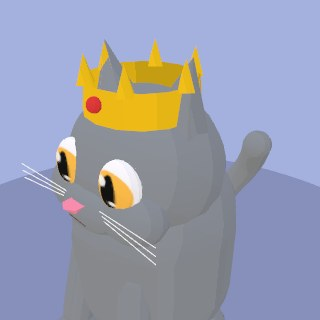
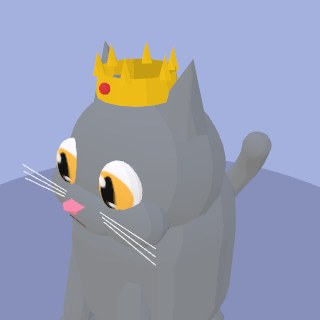
Accessory polish pass from review feedback
- Bandana + scarf bands sit a hair lower so the top edge clears the cheeks.
- Crown shrunk and perched high on the head, between the ears.
- Pirate tricorn rebuilt: felt dome with three LARGE up-curled folds
  (flattened raked spheres) like a real tricorn, gold trim kept.
- Top hat slimmed to fedora width so it rides between the ears.
- Cowboy hat: brim sides curl up (raked wings) and the crown gets a
  cattleman crease (two ridge lobes with a valley between).
- Aviator cap: bigger ear flaps down the sides; goggles pushed out along
  the dome's surface normal so they rest ON the cap instead of sinking in.
- Racing helmet rebuilt: wide glossy dome capping the whole skull, white
  racing stripe arcing nose-to-nape, upturned sun peak at the brow.
- Chef toque taller.
- Wizard hat perched higher with a smaller brim, clear of ears and scalp.
- Viking horns rebuilt much bigger: three stacked segments per side
  (thick frustum base, slimmer mid, tapered tip) sweeping out and up.
- Scarf's hanging end is now a thin slab with a flush white tip stripe
  (reads woven-in, not stuck on).
- Fish charm hangs vertically from a little gold link ring on the collar.

Catalog thumbnails regenerated.

Claude-Session: https://claude.ai/code/session_017fyz1DfGtQ1NoLSq3UX5Bd

diff --git a/src/models.js b/src/models.js
@@ -1122,7 +1122,7 @@ export function createCat(furColor = 0xf0a830, opts = {}) {
     // (Ring smaller + shifted forward for the same egg-section fit reasons as
     // the collar below.)
     const band = new THREE.Mesh(new THREE.CylinderGeometry(0.82, 0.9, 0.2, 32, 1, true), bandMat);
-    band.position.set(0, 1.73, 0.08); band.rotation.x = 0.24; acc.add(band);
+    band.position.set(0, 1.7, 0.08); band.rotation.x = 0.24; acc.add(band); // y1.70: a hair lower so the top edge clears the cheeks
     // Kerchief: a wide, short inverted triangle. NOT a flat sheet — it bulges
     // FORWARD in the middle (a gentle fold) so it drapes OVER the rounded chest
     // instead of the chest bulging through a flat plane. Top edge tucks behind the
@@ -1140,7 +1140,7 @@ export function createCat(furColor = 0xf0a830, opts = {}) {
     fgeo.setIndex([0, 2, 1, 0, 3, 2, 2, 3, 1]);
     fgeo.computeVertexNormals();
     const flap = new THREE.Mesh(fgeo, clothMat);
-    flap.position.set(0, 1.56, 0.82); acc.add(flap); // top edge tucked behind the band's lowered front
+    flap.position.set(0, 1.53, 0.82); acc.add(flap); // top edge tucked behind the band's lowered front
     // The tie at the nape: a knot with two pointed tails, as when a bandana is
     // knotted at the back of the neck. Pushed well behind the neck (z ~ -0.95) so
     // it sits PROUD of the torso's back (which reaches ~z-0.85 here) instead of
@@ -1194,53 +1194,68 @@ export function createCat(furColor = 0xf0a830, opts = {}) {
     rim.position.set(0, 0.46, 0.02); rim.rotation.x = Math.PI / 2; acc.add(rim);
     const pom = new THREE.Mesh(new THREE.SphereGeometry(0.12, 10, 10), accMat(0xf0f0f0));
     pom.position.set(0, 1.36, 0.02); acc.add(pom);  } else if (accId === "crown") {
-    // royal crown — metal band, spikes around the rim, one jewel at the brow
+    // royal crown — SMALL, perched high on the crown of the head so it sits
+    // between the ears instead of ringing through them
     const m = accMat(accCol, 0.35, 0.7);
-    const band = new THREE.Mesh(new THREE.CylinderGeometry(0.52, 0.55, 0.3, 16, 1, true),
+    const band = new THREE.Mesh(new THREE.CylinderGeometry(0.34, 0.37, 0.22, 16, 1, true),
       new THREE.MeshStandardMaterial({ color: accCol, roughness: 0.35, metalness: 0.7, side: THREE.DoubleSide }));
-    band.position.set(0, 0.72, 0.02); acc.add(band);
+    band.position.set(0, 0.85, 0.08); acc.add(band);
     for (let i = 0; i < 6; i++) {
       const a = (i / 6) * Math.PI * 2 + Math.PI / 6;
-      const spike = new THREE.Mesh(new THREE.ConeGeometry(0.1, 0.26, 4), m);
-      spike.position.set(Math.sin(a) * 0.5, 0.97, Math.cos(a) * 0.5 + 0.02);
+      const spike = new THREE.Mesh(new THREE.ConeGeometry(0.07, 0.2, 4), m);
+      spike.position.set(Math.sin(a) * 0.33, 1.03, Math.cos(a) * 0.33 + 0.08);
       acc.add(spike);
     }
-    const jewel = new THREE.Mesh(new THREE.SphereGeometry(0.07, 10, 10), accMat(0xe23b3b, 0.25, 0.3));
-    jewel.position.set(0, 0.74, 0.57); acc.add(jewel);  } else if (accId === "pirate") {
-    // tricorn — a low dome with three brim plates raked up around it
+    const jewel = new THREE.Mesh(new THREE.SphereGeometry(0.05, 10, 10), accMat(0xe23b3b, 0.25, 0.3));
+    jewel.position.set(0, 0.86, 0.45); acc.add(jewel);  } else if (accId === "pirate") {
+    // tricorn — a felt dome with three LARGE up-curled folds leaning against
+    // it (each fold a wide flattened sphere raked steeply, like the folded
+    // brim of a real tricorn)
     const m = accMat(accCol, 0.7);
-    const dome = new THREE.Mesh(new THREE.SphereGeometry(0.6, 16, 12, 0, Math.PI * 2, 0, Math.PI / 2), m);
-    dome.position.set(0, 0.55, 0.02); dome.scale.set(1, 0.75, 1); acc.add(dome);
+    const dome = new THREE.Mesh(new THREE.SphereGeometry(0.62, 16, 12, 0, Math.PI * 2, 0, Math.PI / 2), m);
+    dome.position.set(0, 0.5, 0.02); dome.scale.set(1, 0.85, 1); acc.add(dome);
     for (const a of [0, 2.09, -2.09]) {
-      const plate = new THREE.Mesh(rbox(1.0, 0.07, 0.34, 0.03), m);
-      plate.rotation.order = "YXZ"; // yaw around the dome, then tilt the outer edge up
-      plate.position.set(Math.sin(a) * 0.42, 0.62, Math.cos(a) * 0.42 + 0.02);
-      plate.rotation.y = a; plate.rotation.x = -0.5;
-      acc.add(plate);
+      const fold = new THREE.Mesh(new THREE.SphereGeometry(0.55, 14, 12), m);
+      fold.rotation.order = "YXZ"; // yaw around the dome, then rake the wall
+      fold.position.set(Math.sin(a) * 0.52, 0.62, Math.cos(a) * 0.52 + 0.02);
+      fold.rotation.y = a; fold.rotation.x = -1.05;
+      fold.scale.set(1.0, 0.6, 0.16);
+      acc.add(fold);
     }
-    const trim = new THREE.Mesh(new THREE.TorusGeometry(0.56, 0.035, 6, 20), accMat(0xf5c518, 0.4, 0.5));
-    trim.position.set(0, 0.6, 0.02); trim.rotation.x = Math.PI / 2; acc.add(trim);  } else if (accId === "tophat") {
-    // formal top hat + a gold-rimmed monocle at the right eye
+    const trim = new THREE.Mesh(new THREE.TorusGeometry(0.58, 0.035, 6, 20), accMat(0xf5c518, 0.4, 0.5));
+    trim.position.set(0, 0.52, 0.02); trim.rotation.x = Math.PI / 2; acc.add(trim);  } else if (accId === "tophat") {
+    // formal top hat (fedora-slim so it rides between the ears) + a
+    // gold-rimmed monocle at the right eye
     const m = accMat(accCol, 0.5);
-    const brim = new THREE.Mesh(new THREE.CylinderGeometry(0.8, 0.8, 0.06, 20), m);
-    brim.position.set(0, 0.6, 0.02); acc.add(brim);
-    const crown = new THREE.Mesh(new THREE.CylinderGeometry(0.5, 0.52, 0.7, 18), m);
-    crown.position.set(0, 0.98, 0.02); acc.add(crown);
-    const hatband = new THREE.Mesh(new THREE.CylinderGeometry(0.53, 0.53, 0.12, 18), accMat(accColDark()));
-    hatband.position.set(0, 0.72, 0.02); acc.add(hatband);
+    const brim = new THREE.Mesh(new THREE.CylinderGeometry(0.66, 0.66, 0.06, 20), m);
+    brim.position.set(0, 0.64, 0.02); acc.add(brim);
+    const crown = new THREE.Mesh(new THREE.CylinderGeometry(0.4, 0.42, 0.7, 18), m);
+    crown.position.set(0, 1.0, 0.02); acc.add(crown);
+    const hatband = new THREE.Mesh(new THREE.CylinderGeometry(0.43, 0.43, 0.12, 18), accMat(accColDark()));
+    hatband.position.set(0, 0.74, 0.02); acc.add(hatband);
     const ring = new THREE.Mesh(new THREE.TorusGeometry(0.16, 0.025, 8, 20), accMat(0xf5c518, 0.35, 0.7));
     ring.position.set(0.34, 0.08, 0.86); acc.add(ring);
     const glass = new THREE.Mesh(new THREE.CylinderGeometry(0.14, 0.14, 0.02, 16), accMat(0xcfe0ea, 0.15, 0.5));
     glass.rotation.x = Math.PI / 2; glass.position.set(0.34, 0.08, 0.85); acc.add(glass);  } else if (accId === "cowboy") {
-    // wide rolled-edge brim (a flattened torus reads as the curl) + pinched crown
+    // wide brim with the SIDES curled up (two raked wings) + a cattleman
+    // crease faked by two ridge lobes on the crown top with a valley between
     const m = accMat(accCol, 0.75);
-    const curl = new THREE.Mesh(new THREE.TorusGeometry(0.72, 0.2, 10, 24), m);
-    curl.rotation.x = Math.PI / 2; curl.scale.set(1, 1, 0.28);
-    curl.position.set(0, 0.62, 0.02); acc.add(curl);
     const disc = new THREE.Mesh(new THREE.CylinderGeometry(0.74, 0.74, 0.05, 20), m);
     disc.position.set(0, 0.62, 0.02); acc.add(disc);
+    for (const sx of [-1, 1]) {
+      const wing = new THREE.Mesh(rbox(0.34, 0.06, 0.92, 0.03), m);
+      wing.position.set(sx * 0.72, 0.72, 0.02);
+      wing.rotation.z = sx * 0.55; // outer edge sweeps up
+      acc.add(wing);
+    }
     const crown = new THREE.Mesh(new THREE.CylinderGeometry(0.44, 0.5, 0.45, 16), m);
     crown.position.set(0, 0.84, 0.02); crown.scale.set(1, 1, 0.92); acc.add(crown);
+    for (const sx of [-1, 1]) {
+      const ridge = new THREE.Mesh(new THREE.SphereGeometry(0.14, 10, 10), m);
+      ridge.position.set(sx * 0.16, 1.06, 0.02);
+      ridge.scale.set(1, 0.65, 2.4); // front-to-back ridges; the gap between reads as the crease
+      acc.add(ridge);
+    }
     const hatband = new THREE.Mesh(new THREE.CylinderGeometry(0.5, 0.5, 0.1, 16), accMat(accColDark()));
     hatband.position.set(0, 0.68, 0.02); hatband.scale.set(1, 1, 0.92); acc.add(hatband);  } else if (accId === "aviator") {
     // leather flight cap with ear flaps + goggles pushed up on the forehead
@@ -1248,48 +1263,54 @@ export function createCat(furColor = 0xf0a830, opts = {}) {
     const dome = new THREE.Mesh(new THREE.SphereGeometry(0.66, 16, 12, 0, Math.PI * 2, 0, Math.PI * 0.62), m);
     dome.position.set(0, 0.35, 0); dome.scale.set(1, 0.85, 1); acc.add(dome);
     for (const sx of [-1, 1]) {
-      const flap = new THREE.Mesh(rbox(0.16, 0.4, 0.34, 0.06), m);
-      flap.position.set(sx * 0.64, 0.05, 0.05); acc.add(flap);
+      // Big ear flaps hanging down the sides of the head, like the real thing.
+      const flap = new THREE.Mesh(rbox(0.18, 0.52, 0.42, 0.07), m);
+      flap.position.set(sx * 0.68, -0.08, 0.08); acc.add(flap);
     }
+    // Goggles rest ON the cap's surface (centres pushed out along the dome's
+    // normal, tilted to lie against the slope) so they never sink into it.
     const gm = accMat(0x8a8f98, 0.4, 0.6);
     for (const sx of [-1, 1]) {
       const ring = new THREE.Mesh(new THREE.TorusGeometry(0.17, 0.035, 8, 18), gm);
-      ring.position.set(sx * 0.23, 0.64, 0.5); ring.rotation.x = -0.95; acc.add(ring);
+      ring.position.set(sx * 0.24, 0.57, 0.61); ring.rotation.x = -0.52; acc.add(ring);
       const lens = new THREE.Mesh(new THREE.CylinderGeometry(0.15, 0.15, 0.02, 14), accMat(0xbfd8e8, 0.2, 0.4));
-      lens.position.set(sx * 0.23, 0.64, 0.5); lens.rotation.x = -0.95 + Math.PI / 2; acc.add(lens);
+      lens.position.set(sx * 0.24, 0.57, 0.61); lens.rotation.x = -0.52 + Math.PI / 2; acc.add(lens);
     }
     const bridge = new THREE.Mesh(rbox(0.14, 0.05, 0.05, 0.02), gm);
-    bridge.position.set(0, 0.66, 0.54); bridge.rotation.x = -0.95; acc.add(bridge);  } else if (accId === "helmet") {
-    // racing helmet — glossy shell capping the crown + a dark visor band
-    // resting on the brow (the eyes stay visible below it)
+    bridge.position.set(0, 0.6, 0.65); bridge.rotation.x = -0.52; acc.add(bridge);  } else if (accId === "helmet") {
+    // kart racing helmet: a glossy dome WIDE enough to cap the whole skull
+    // (like the viking dome), a white racing stripe arcing front-to-back over
+    // the top, and an upturned sun peak at the brow.
     const m = accMat(accCol, 0.35);
-    const shell = new THREE.Mesh(new THREE.SphereGeometry(0.68, 18, 14, 0, Math.PI * 2, 0, Math.PI * 0.56), m);
-    shell.position.set(0, 0.4, 0.04); shell.scale.set(1, 0.92, 1); acc.add(shell);
-    const rim = new THREE.Mesh(new THREE.TorusGeometry(0.66, 0.05, 8, 24), m);
-    rim.position.set(0, 0.29, 0.04); rim.rotation.x = Math.PI / 2; acc.add(rim);
-    const visor = new THREE.Mesh(rbox(0.72, 0.2, 0.08, 0.05), accMat(0x1a1f26, 0.2, 0.4));
-    visor.position.set(0, 0.38, 0.62); visor.rotation.x = -0.12; acc.add(visor);  } else if (accId === "chef") {
-    // toque — a straight band with a puffy cloud of a top
+    const shell = new THREE.Mesh(new THREE.SphereGeometry(0.68, 18, 14, 0, Math.PI * 2, 0, Math.PI * 0.58), m);
+    shell.position.set(0, 0.38, 0.04); shell.scale.set(1.2, 0.95, 1.14); acc.add(shell);
+    const stripe = new THREE.Mesh(new THREE.TorusGeometry(0.69, 0.05, 8, 24, Math.PI), accMat(0xf0f0f0, 0.4));
+    stripe.rotation.y = -Math.PI / 2; // arc runs nose-to-nape over the dome
+    stripe.position.set(0, 0.38, 0.04); stripe.scale.set(1, 0.94, 1.13); acc.add(stripe);
+    const peak = new THREE.Mesh(rbox(0.6, 0.06, 0.34, 0.04), accMat(0x1a1f26, 0.3, 0.3));
+    peak.position.set(0, 0.52, 0.78); peak.rotation.x = -0.3; acc.add(peak);  } else if (accId === "chef") {
+    // toque — a straight band with a TALL puffy cloud of a top
     const m = accMat(accCol, 0.85);
-    const band = new THREE.Mesh(new THREE.CylinderGeometry(0.56, 0.56, 0.28, 18), m);
-    band.position.set(0, 0.55, 0.02); acc.add(band);
+    const band = new THREE.Mesh(new THREE.CylinderGeometry(0.56, 0.56, 0.34, 18), m);
+    band.position.set(0, 0.58, 0.02); acc.add(band);
     const puff = new THREE.Mesh(new THREE.SphereGeometry(0.5, 14, 12), m);
-    puff.position.set(0, 0.88, 0.02); puff.scale.set(1, 0.72, 1); acc.add(puff);
+    puff.position.set(0, 1.02, 0.02); puff.scale.set(1, 0.88, 1); acc.add(puff);
     for (let i = 0; i < 4; i++) {
       const a = (i / 4) * Math.PI * 2 + 0.5;
       const lobe = new THREE.Mesh(new THREE.SphereGeometry(0.24, 10, 10), m);
-      lobe.position.set(Math.sin(a) * 0.34, 0.92, Math.cos(a) * 0.34 + 0.02); acc.add(lobe);
+      lobe.position.set(Math.sin(a) * 0.34, 1.1, Math.cos(a) * 0.34 + 0.02); acc.add(lobe);
     }  } else if (accId === "wizard") {
-    // tall pointed hat with a wide brim and a couple of stars
+    // tall pointed hat, perched a bit higher so its brim rides the crown of
+    // the head clear of the ears and scalp
     const m = accMat(accCol, 0.75);
-    const brim = new THREE.Mesh(new THREE.CylinderGeometry(0.85, 0.85, 0.06, 20), m);
-    brim.position.set(0, 0.52, 0.02); acc.add(brim);
+    const brim = new THREE.Mesh(new THREE.CylinderGeometry(0.78, 0.78, 0.06, 20), m);
+    brim.position.set(0, 0.6, 0.02); acc.add(brim);
     const cone = new THREE.Mesh(new THREE.ConeGeometry(0.5, 1.15, 16), m);
-    cone.position.set(0, 1.1, -0.02); cone.rotation.x = -0.1; acc.add(cone);
+    cone.position.set(0, 1.18, -0.02); cone.rotation.x = -0.1; acc.add(cone);
     const star1 = new THREE.Mesh(new THREE.SphereGeometry(0.05, 8, 8), accMat(0xf5c518, 0.4, 0.4));
-    star1.position.set(0.2, 0.9, 0.4); acc.add(star1);
+    star1.position.set(0.2, 0.98, 0.38); acc.add(star1);
     const star2 = new THREE.Mesh(new THREE.SphereGeometry(0.04, 8, 8), accMat(0xf5c518, 0.4, 0.4));
-    star2.position.set(-0.15, 1.25, 0.26); acc.add(star2);  } else if (accId === "viking") {
+    star2.position.set(-0.15, 1.33, 0.24); acc.add(star2);  } else if (accId === "viking") {
     // metal dome + rim band + two out-swept horns with ball tips. The dome is
     // WIDER than the skull (x-radius ~0.81) so it caps the head instead of
     // sinking inside it.
@@ -1298,34 +1319,46 @@ export function createCat(furColor = 0xf0a830, opts = {}) {
     dome.position.set(0, 0.4, 0.02); dome.scale.set(1.22, 0.95, 1.16); acc.add(dome);
     const rim = new THREE.Mesh(new THREE.TorusGeometry(0.8, 0.07, 8, 24), accMat(accColDark(), 0.5, 0.4));
     rim.position.set(0, 0.42, 0.02); rim.rotation.x = Math.PI / 2; rim.scale.set(1.02, 0.97, 1); acc.add(rim);
+    // BIG curved horns: three stacked segments per side (thick frustum base →
+    // slimmer mid → tapered tip cone), each tilted a little more upright, so
+    // the horn sweeps out from the helmet and curls up like the real thing.
     const hornMat = accMat(0xf0ead6, 0.6);
     for (const sx of [-1, 1]) {
-      const horn = new THREE.Mesh(new THREE.ConeGeometry(0.13, 0.55, 10), hornMat);
-      horn.position.set(sx * 0.72, 0.78, 0.02); horn.rotation.z = sx * -1.0; acc.add(horn);
-      const tip = new THREE.Mesh(new THREE.SphereGeometry(0.07, 8, 8), hornMat);
-      tip.position.set(sx * 0.95, 0.93, 0.02); acc.add(tip);
+      const base = new THREE.Mesh(new THREE.CylinderGeometry(0.11, 0.17, 0.32, 10), hornMat);
+      base.position.set(sx * 0.84, 0.6, 0.02); base.rotation.z = sx * -0.95; acc.add(base);
+      const mid = new THREE.Mesh(new THREE.CylinderGeometry(0.07, 0.11, 0.32, 10), hornMat);
+      mid.position.set(sx * 1.03, 0.79, 0.02); mid.rotation.z = sx * -0.5; acc.add(mid);
+      const tip = new THREE.Mesh(new THREE.ConeGeometry(0.075, 0.38, 10), hornMat);
+      tip.position.set(sx * 1.12, 1.05, 0.02); tip.rotation.z = sx * -0.08; acc.add(tip);
     }  } else if (accId === "scarf") {
     // knit scarf: the collar's tilted cone band, taller, with a striped tail
     // draped down the chest (body frame, same fit rules as the collar).
     const m = new THREE.MeshStandardMaterial({ color: accCol, roughness: 0.85, side: THREE.DoubleSide });
     const band = new THREE.Mesh(new THREE.CylinderGeometry(0.82, 0.9, 0.26, 32, 1, true), m);
-    band.position.set(0, 1.71, 0.08); band.rotation.x = 0.22; acc.add(band);
-    const tail = new THREE.Mesh(rbox(0.3, 0.62, 0.12, 0.05), accMat(accCol, 0.85));
-    tail.position.set(0.32, 1.28, 0.88); tail.rotation.z = 0.12; tail.rotation.x = 0.1; acc.add(tail);
-    const stripe = new THREE.Mesh(rbox(0.31, 0.12, 0.13, 0.04), accMat(0xf0f0f0, 0.85));
-    stripe.position.set(0.36, 1.0, 0.9); stripe.rotation.z = 0.12; stripe.rotation.x = 0.1; acc.add(stripe);  } else if (accId === "charm") {
+    band.position.set(0, 1.68, 0.08); band.rotation.x = 0.22; acc.add(band); // y1.68: top edge clears the cheeks
+    // The hanging end is THIN like the loop (0.05 slab), and the white tip is
+    // a coplanar slab of the same thickness — flush with the cloth so it reads
+    // as a woven stripe, not a block stuck on the end.
+    const tail = new THREE.Mesh(rbox(0.28, 0.7, 0.05, 0.02), accMat(accCol, 0.85));
+    tail.position.set(0.32, 1.24, 0.9); tail.rotation.z = 0.12; tail.rotation.x = 0.1; acc.add(tail);
+    const stripe = new THREE.Mesh(rbox(0.28, 0.14, 0.055, 0.02), accMat(0xf0f0f0, 0.85));
+    stripe.position.set(0.355, 0.95, 0.87); stripe.rotation.z = 0.12; stripe.rotation.x = 0.1; acc.add(stripe);  } else if (accId === "charm") {
     // the collar band with a little silver-blue fish where the bell would be
     // (treats are fish, after all)
     const m = new THREE.MeshStandardMaterial({ color: accCol, roughness: 0.55, side: THREE.DoubleSide });
     const band = new THREE.Mesh(new THREE.CylinderGeometry(0.82, 0.9, 0.22, 32, 1, true), m);
     band.position.set(0, 1.72, 0.08); band.rotation.x = 0.22; acc.add(band);
+    // The fish hangs VERTICALLY (nose up) from a little link ring on the
+    // band's front lower edge, like a real charm.
     const fishMat = accMat(0x9ab8d8, 0.35, 0.6);
+    const link = new THREE.Mesh(new THREE.TorusGeometry(0.045, 0.018, 6, 12), accMat(0xffd24d, 0.4, 0.5));
+    link.position.set(0, 1.42, 0.96); acc.add(link);
     const body = new THREE.Mesh(new THREE.SphereGeometry(0.12, 12, 10), fishMat);
-    body.position.set(0.02, 1.28, 0.97); body.scale.set(1.5, 0.85, 0.45); acc.add(body);
+    body.position.set(0, 1.24, 0.97); body.scale.set(0.85, 1.5, 0.45); acc.add(body);
     const fin = new THREE.Mesh(new THREE.ConeGeometry(0.08, 0.16, 4), fishMat);
-    fin.position.set(-0.22, 1.28, 0.97); fin.rotation.z = -Math.PI / 2; fin.scale.set(1, 1, 0.5); acc.add(fin);
+    fin.position.set(0, 1.02, 0.97); fin.scale.set(1, 1, 0.5); acc.add(fin); // tail fin at the bottom, apex tucked into the body
     const eye = new THREE.Mesh(new THREE.SphereGeometry(0.025, 6, 6), accMat(0x1a1a1a, 0.4));
-    eye.position.set(0.1, 1.31, 1.02); acc.add(eye);  }
+    eye.position.set(0.05, 1.32, 1.02); acc.add(eye);  }
   // Headwear / eyewear ride with the head; neckwear (bandana, collar, bow tie,
   // scarf, fish charm) sits on the body. `acc` is at the origin, so its
   // children's transforms already read in the right frame — route them into the
